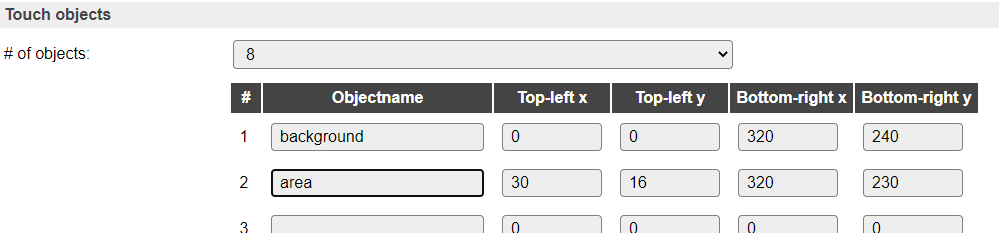
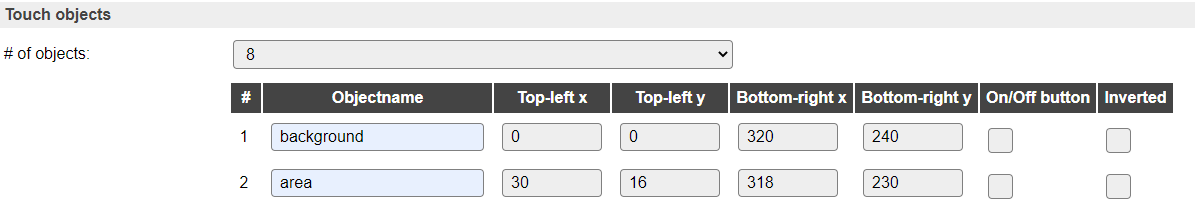
[P099] Add On/Off button to touchobjects - Add On/Off button and Inverted settings per touchobject - Updated documentation and screenshots

diff --git a/src/src/PluginStructs/P099_data_struct.cpp b/src/src/PluginStructs/P099_data_struct.cpp
@@ -25,6 +25,9 @@ void P099_data_struct::reset() {
     delete touchscreen;
     touchscreen = nullptr;
   }
+#ifdef PLUGIN_099_DEBUG
+  addLog(LOG_LEVEL_INFO, F("P099 DEBUG Touchscreen reset."));
+#endif // PLUGIN_099_DEBUG
 }
 
 /**
@@ -55,6 +58,11 @@ bool P099_data_struct::init(taskIndex_t taskIndex,
     touchscreen->setRotation(rotation);
     touchscreen->begin();
     loadTouchObjects(taskIndex);
+#ifdef PLUGIN_099_DEBUG
+    addLog(LOG_LEVEL_INFO, F("P099 DEBUG Plugin & touchscreen initialized."));
+   } else {
+    addLog(LOG_LEVEL_INFO, F("P099 DEBUG Touchscreen initialisation FAILED."));
+#endif // PLUGIN_099_DEBUG
   }
   return isInitialized();
 }
@@ -71,8 +79,8 @@ bool P099_data_struct::isInitialized() const {
  */
 void P099_data_struct::loadTouchObjects(taskIndex_t taskIndex) {
 #ifdef PLUGIN_099_DEBUG
-  String log = F("loadTouchObjects size: ");
-  log += String(sizeof(StoredSettings));
+  String log = F("P099 DEBUG loadTouchObjects size: ");
+  log += sizeof(StoredSettings);
   addLog(LOG_LEVEL_INFO, log);
 #endif // PLUGIN_099_DEBUG
   LoadCustomTaskSettings(taskIndex, (uint8_t *)&(StoredSettings), sizeof(StoredSettings));
@@ -80,6 +88,8 @@ void P099_data_struct::loadTouchObjects(taskIndex_t taskIndex) {
   for (int i = 0; i < P099_MaxObjectCount; i++) {
     StoredSettings.TouchObjects[i].objectname[P099_MaxObjectNameLength - 1] = 0; // Terminate strings in case of uninitialized data
     SurfaceAreas[i] = 0; // Reset
+    TouchTimers[i]  = 0;
+    TouchStates[i]  = false;
   }
 }
 
@@ -99,6 +109,9 @@ bool P099_data_struct::touched() {
 void P099_data_struct::readData(uint16_t *x, uint16_t *y, uint8_t *z) {
   if (isInitialized()) {
     touchscreen->readData(x, y, z);
+#ifdef PLUGIN_099_DEBUG
+    addLog(LOG_LEVEL_INFO, F("P099 DEBUG readData"));
+#endif // PLUGIN_099_DEBUG
   }
 }
 
@@ -108,6 +121,11 @@ void P099_data_struct::readData(uint16_t *x, uint16_t *y, uint8_t *z) {
 void P099_data_struct::setRotation(uint8_t n) {
   if (isInitialized()) {
     touchscreen->setRotation(n);
+#ifdef PLUGIN_099_DEBUG
+    String log = F("P099 DEBUG Rotation set: ");
+    log += n;
+    addLog(LOG_LEVEL_INFO, log);
+#endif // PLUGIN_099_DEBUG
   }
 }
 
@@ -127,7 +145,7 @@ bool P099_data_struct::isCalibrationActive() {
  * The smallest matching surface is selected if multiple objects overlap.
  * Returns state, and sets selectedObjectName to the best matching object
  */
-bool P099_data_struct::isValidAndTouchedTouchObject(uint16_t x, uint16_t y, String &selectedObjectName, uint8_t checkObjectCount) {
+bool P099_data_struct::isValidAndTouchedTouchObject(uint16_t x, uint16_t y, String &selectedObjectName, int &selectedObjectIndex, uint8_t checkObjectCount) {
   uint32_t lastObjectArea = 0;
   bool     selected = false;
   for (uint8_t objectNr = 0; objectNr < checkObjectCount; objectNr++) {
@@ -147,12 +165,13 @@ bool P099_data_struct::isValidAndTouchedTouchObject(uint16_t x, uint16_t y, Stri
         && StoredSettings.TouchObjects[objectNr].bottom_right.y >= y
         && (lastObjectArea == 0 
           || SurfaceAreas[objectNr] < lastObjectArea)) { // Select smallest area that fits the coordinates
-        selectedObjectName = objectName;
-        lastObjectArea = SurfaceAreas[objectNr];
-        selected = true;
+        selectedObjectName  = objectName;
+        selectedObjectIndex = objectNr;
+        lastObjectArea      = SurfaceAreas[objectNr];
+        selected            = true;
       }
 #ifdef PLUGIN_099_DEBUG
-      String log = F("P099 Check touched: obj: ");
+      String log = F("P099 DEBUG Touched: obj: ");
       log += objectName;
       log += ',';
       log += StoredSettings.TouchObjects[objectNr].top_left.x;
@@ -170,11 +189,55 @@ bool P099_data_struct::isValidAndTouchedTouchObject(uint16_t x, uint16_t y, Stri
       log += y;
       log += F(" sel:");
       log += selectedObjectName;
+      log += '/';
+      log += selectedObjectIndex;
       addLog(LOG_LEVEL_INFO, log);
 #endif // PLUGIN_099_DEBUG
     }
   }
   return selected;
+}
+
+/**
+ * Set the enabled/disabled state by inserting or deleting an underscore '_' as the first character of the object name.
+ * Checks if the name doesn't exceed the max. length.
+ */
+bool P099_data_struct::setTouchObjectState(String touchObject, bool state, uint8_t checkObjectCount) {
+  if (touchObject.length() == 0 || touchObject.substring(0, 1) == F("_")) return false;
+  String findObject = (state ? F("_") : F("")); // When enabling, try to find a disabled object
+  findObject += touchObject;
+  String thisObject;
+  bool   success = false;
+  thisObject.reserve(P099_MaxObjectNameLength);
+  for (uint8_t objectNr = 0; objectNr < checkObjectCount; objectNr++) {
+    thisObject = String(StoredSettings.TouchObjects[objectNr].objectname);
+    if (thisObject.length() > 0 && findObject.equalsIgnoreCase(thisObject)) {
+      if (state) {
+        success = safe_strncpy(StoredSettings.TouchObjects[objectNr].objectname, thisObject.substring(1), P099_MaxObjectNameLength); // Keep original character casing
+      } else {
+        if (thisObject.length() < P099_MaxObjectNameLength - 2) { // Leave room for the underscore and the terminating 0.
+          String disabledObject = F("_");
+          disabledObject += thisObject;
+          success = safe_strncpy(StoredSettings.TouchObjects[objectNr].objectname, disabledObject, P099_MaxObjectNameLength);
+        }
+      }
+      StoredSettings.TouchObjects[objectNr].objectname[P099_MaxObjectNameLength - 1] = 0; // Just to be safe
+#ifdef PLUGIN_099_DEBUG
+      String log = F("P099 setTouchObjectState: obj: ");
+      log += thisObject;
+      if (success) {
+      log += F(", new state: ");
+      log += (state ? F("en") : F("dis"));
+      log += F("abled.");
+      } else {
+        log += F("failed!");
+      }
+      addLog(LOG_LEVEL_INFO, log);
+#endif // PLUGIN_099_DEBUG
+      // break; // Only first one found is processed
+    }
+  }
+  return success;
 }
 
 /**

diff --git a/src/src/PluginStructs/P099_data_struct.h b/src/src/PluginStructs/P099_data_struct.h
@@ -17,8 +17,11 @@
   #define P099_TS_CS  0 // D3
 #endif // ESP32
 
-#define P099_MaxObjectNameLength 16 // 15 character objectnames + terminating 0
+#define P099_MaxObjectNameLength 15 // 14 character objectnames + terminating 0
 #define P099_MaxObjectCount      40 // This count of touchobjects should be enough, because of limited settings storage, 960 bytes + 8 bytes calibration coordinates
+
+#define P099_FLAGS_ON_OFF_BUTTON 0 // TouchObjects.flags On/Off Button function
+#define P099_FLAGS_INVERT_BUTTON 1 // TouchObjects.flags Inverted On/Off Button function
 
 // Data structure
 struct P099_data_struct : public PluginTaskData_base
@@ -42,7 +45,8 @@ struct P099_data_struct : public PluginTaskData_base
 	void readData(uint16_t *x, uint16_t *y, uint8_t *z);
   void setRotation(uint8_t n);
   bool isCalibrationActive();
-  bool isValidAndTouchedTouchObject(uint16_t x, uint16_t y, String &selectedObjectName, uint8_t checkObjectCount);
+  bool isValidAndTouchedTouchObject(uint16_t x, uint16_t y, String &selectedObjectName, int &selectedObjectIndex, uint8_t checkObjectCount);
+  bool setTouchObjectState(String touchObject, bool state, uint8_t checkObjectCount);
   void scaleRawToCalibrated(uint16_t &x, uint16_t &y);
 
   // This is initialized by calling init()
@@ -59,6 +63,10 @@ struct P099_data_struct : public PluginTaskData_base
   // This is filled during checking of a touchobject
   uint32_t SurfaceAreas[P099_MaxObjectCount];
 
+  // Counters for debouncing touch button
+  uint32_t TouchTimers[P099_MaxObjectCount];
+  bool     TouchStates[P099_MaxObjectCount];
+
   // The settings structures
   // Lets define our own coordinate point
   struct tP099_Point
@@ -71,6 +79,7 @@ struct P099_data_struct : public PluginTaskData_base
   struct tP099_Touchobjects
   {
     char        objectname[P099_MaxObjectNameLength] = { 0 };
+    byte        flags = 0;
     tP099_Point top_left;
     tP099_Point bottom_right;
   };

diff --git a/docs/source/Plugin/P099.rst b/docs/source/Plugin/P099.rst
@@ -59,7 +59,7 @@ For TouchObject name events to be sent, some touchobject name(s) must be defined
 Calibration
 ~~~~~~~~~~~~
 
-Optionally, the screen can be calibrated to the screen resolution the touchscreen is mounted on. This will make the coordinate-mapping with the screen more human understandable. By default this option is turned off. When changing this setting, the page will be reloaded, and reveal the calibration coordinates to be entered.
+Optionally, the touchscreen can be calibrated to the display resolution the touchscreen is mounted on. This will make the coordinate-mapping with the display more human understandable. By default this option is turned off. When changing this setting, the page will be reloaded, and reveal or hide the calibration coordinates to be entered.
 
 By enabling the 'Enable logging for calibration' setting, extra logging is produced (Info level) so calibration and touchobject coordinates can be determined.
 
@@ -72,9 +72,13 @@ To make the use of the touchscreen easier, specific screen areas, called touchob
 
 After changing this setting the page is reloaded to adjust the list of objects. When set to None, no touch objects will be shown (though the objectnames and coordinates won't be cleared), only the number of touchobjects configured here will be checked when the touchscreen is touched.
 
-A touchobject has a name, that will be used as the second part of the event-name if Events includes the option Objectnames, where the first part is the device Name. So if the objectname is ``button`` and the device name is ``XPT2046``, the event ``XPT2046#button`` will be fired, with the actual X, Y and Z values of the touch that triggered it as ``%eventvalue1%``, ``%eventvalue2%`` and ``%eventvalue3%``.
+A touchobject has a name, that will be used as the second part of the event-name if the Events setting includes the option Objectnames, where the first part is the device Name. So if the objectname is ``button`` and the device name is ``XPT2046``, the event ``XPT2046#button`` will be fired, with the actual X, Y and Z values of the touch that triggered it as ``%eventvalue1%``, ``%eventvalue2%`` and ``%eventvalue3%``.
 
-When the name of the touchobject starts with '_' (underscore), that objectname is ignored, to make it easy to temporary disable an object, without the need of removing it from the list.
+When the name of the touchobject starts with '_' (underscore), that objectname is ignored, to make it easy to temporary disable an object, without the need of removing it from the list. The commands ``touch,disable,<objectname>`` and ``touch,enable,<objectname>`` can be used to disable/enable touch objects from rules or externally.
+
+Per touchobject, checkboxes are available to configure that object as an On/Off button, and optionally invert the state. When the On/Off button option is checked, the event fired by the object has its On/Off state as an argument, just like a switch does. So in that case it fires ``XPT2046#button`` with the state (0 or 1) as the ``%eventvalue%``. Any X, Y or Z values can be used by reading ``[XPT2046#X]`` etc.
+
+Object names do not have to be unique, though they should not be the same as the Values defined in the Device settings. When defining multiple touchobjects with the same name and options (On/Off button and Inverted), but different touch coordinates, they will fire the same event for different touch coordinates. Also, when using the ``touch,enable,<objectname>`` and ``touch,disable,<objectname>`` commands, all objects with that name will be enabled/disabled.
 
 How to calibrate
 ~~~~~~~~~~~~~~~~
@@ -89,11 +93,11 @@ There are some settings that can make calibration, or touchobject configuration,
 
 3. Select for the touchscreen device the option 'Events' either 'Off' or 'Objectnames only' (so touching a touchobject defined area will show the eventname in the log).
 
-4. Open 2 tabs in the webbrowser (easiest is to use a laptop or computer, not a tablet or mobile phone for this calibration configuration), 1 tab showing the Device configuration, and the second showing the Tools page. Instead of a second browser tab the Serial log can be used if the ESP is connected to the computer via USB. Then that log level should be set to Info.
+4. Open 2 tabs in a webbrowser (easiest is to use a laptop or computer, not a tablet or mobile phone for this calibration configuration), 1 tab showing the Device configuration, and another showing the Tools page. Instead of a second browser tab the Serial log can be used if the ESP is connected to the computer via USB. Then the serial log level should also be set to Info.
 
 5. Draw a non-filled rectangle on the underlying display from coordinate 0,0 to the maximum screen resolution (in this documentation the display used is set to 320 x 240 px, 270 degrees rotated). These commands can be sent from the Tools page of ESPEasy.
 
-   For example on 'TFT 2.4 inches ILI9341' screen: 
+   For example on 'Display - TFT 2.4 inches ILI9341' screen: 
    
    a. Set background color to black:  ``tftcmd,clear,black``
  
@@ -101,7 +105,10 @@ There are some settings that can make calibration, or touchobject configuration,
  
    c. Draw a white, non-filled, rectangle:  ``tft,r,0,0,320,240,white``
 
+
 6. On the Device configuration set the Touch calibration to Yes, and tick the checkbox at 'Enable logging for calibration'.
+
+.. image:: P099_CalibrationEnabled.png
 
 7. Now open the Log from the Tools page, or view the serial log output.
 
@@ -125,14 +132,16 @@ There are some settings that can make calibration, or touchobject configuration,
 
 9. Save the settings using the Submit button at the bottom of the page.
 
+.. image:: P099_CalibrationSetup.png
+
 After calibration is set, the output of the log lines shown changes, for example, when now touching the top left corner of the rectangle, this output wil show::
 
   1857810 : Info  : Touch calibration rx= 355, ry= 297; z= 157, x= 0, y= 0
   1857910 : Info  : Touch calibration rx= 357, ry= 305; z= 135, x= 0, y= 0
   1859110 : Info  : Touch calibration rx= 361, ry= 360; z= 144, x= 0, y= 4
 
-Now that calibration is set up, the ``x`` and ``y`` values of the logging now have the calibrated values of the raw x and y (``rx``/``ry``) values.
-There are several log lines with nearly the same values. The count of lines depends on the duration of pressing the pen on the screen, and the touchscreen is read 10 times per second.
+Now that calibration is set up, the ``x`` and ``y`` values of the logging have the calibrated values of the raw x and y (``rx``/``ry``) values.
+There are several log lines with nearly the same values. The count of lines depends on the duration of pressing the pen on the screen, as the touchscreen is read 10 times per second.
 Also there can be a little variation on the ``x`` and ``y`` values, but anything below the calibrated top-left or above the bottom-right values is cut off to that value.
 
 How to configure touch objects
@@ -143,7 +152,7 @@ The many posibilities are only limited by the imagination of the user and the si
 
 Setting up touch objects:
 
-First configure your device according to steps 1..4 of the 'How to calibrate' instructions, above.
+First configure your device according to steps 1..4 and step 7 of the 'How to calibrate' instructions, above.
 
 Then, draw the desired user interface on the display, or design it, using the constraints of the display resolution the touchscreen is mounted on.
 
@@ -181,11 +190,11 @@ and bottom-right::
 
 .. image:: P099_TouchObject_sun.png
 
-Up to 40 touchobjects can be defined in this way.
+Up to 40 touchobjects can be defined in this way. When changing the # of objects, the configuration will also be saved.
 
 Now Submit the page to save the configuration.
 
-After the configuration is saved, the objects can be touched to see the events sent, assuming we configured to only send events for Touchobjects, we'll only see those::
+After the configuration is saved, the objects can be touched to see the events sent, assuming we configured to only send events for Touchobjects (Enable logging for calibration is still enabled here, though it could be turned off now), we'll only see those::
 
   3500336 : Info  : Touch calibration rx= 3461, ry= 1005; z= 24, x= 282, y= 50
   3500337 : Info  : EVENT: XPT2046#sun=282,50,24
@@ -194,10 +203,23 @@ After the configuration is saved, the objects can be touched to see the events s
   3500536 : Info  : Touch calibration rx= 3501, ry= 1012; z= 41, x= 286, y= 51
   3500537 : Info  : EVENT: XPT2046#sun=286,51,41
 
-As you see, multiple events are sent when holding the pen on the touch area, that may require some careful planning while handling the event actions, as they can be fired up to 10 times per second!
-()
+Or, when the On/Off button option is checked (as in the screenshot)::
 
-The screen, with its content, is defined like this (content is sent to the screen from a Raspberry Pi with a Python script, collecting data from Zevercloud and some Domoticz data)
+  1784226 : Info  : Touch calibration rx= 3421, ry= 954; z= 32, x= 278, y= 47
+  1784326 : Info  : Touch calibration rx= 3414, ry= 990; z= 148, x= 278, y= 49
+  1784426 : Info  : Touch calibration rx= 3423, ry= 944; z= 239, x= 279, y= 46
+  1784427 : Info  : EVENT: XPT2046#sun=1
+  1792926 : Info  : Touch calibration rx= 3364, ry= 894; z= 79, x= 273, y= 42
+  1793026 : Info  : Touch calibration rx= 3350, ry= 930; z= 165, x= 272, y= 45
+  1793126 : Info  : Touch calibration rx= 3376, ry= 907; z= 134, x= 274, y= 43
+  1793127 : Info  : EVENT: XPT2046#sun=0
+
+As you see, multiple events are sent when holding the pen on the touch area, that may require some careful planning while handling the event actions, as they can be fired up to 10 times per second!
+
+When configuring a touchobject as an On/Off button, less events will be sent, as some 'debouncing' is built in (currently fixed at 150 msec), so a 'toggle' of the button requirs a good press before it is registered.
+And in that configuration, only an On  or Off event is sent (or inverted when that checkbox is on). The X, Y and Z values can be read from the values as usual.
+
+The screen, with its content, is defined like this (the content shown is drawn on the display from a Raspberry Pi using a Python script, collecting data from Zevercloud and some Domoticz data)
 
 .. image:: P099_TouchObject_definitions.jpg
 
